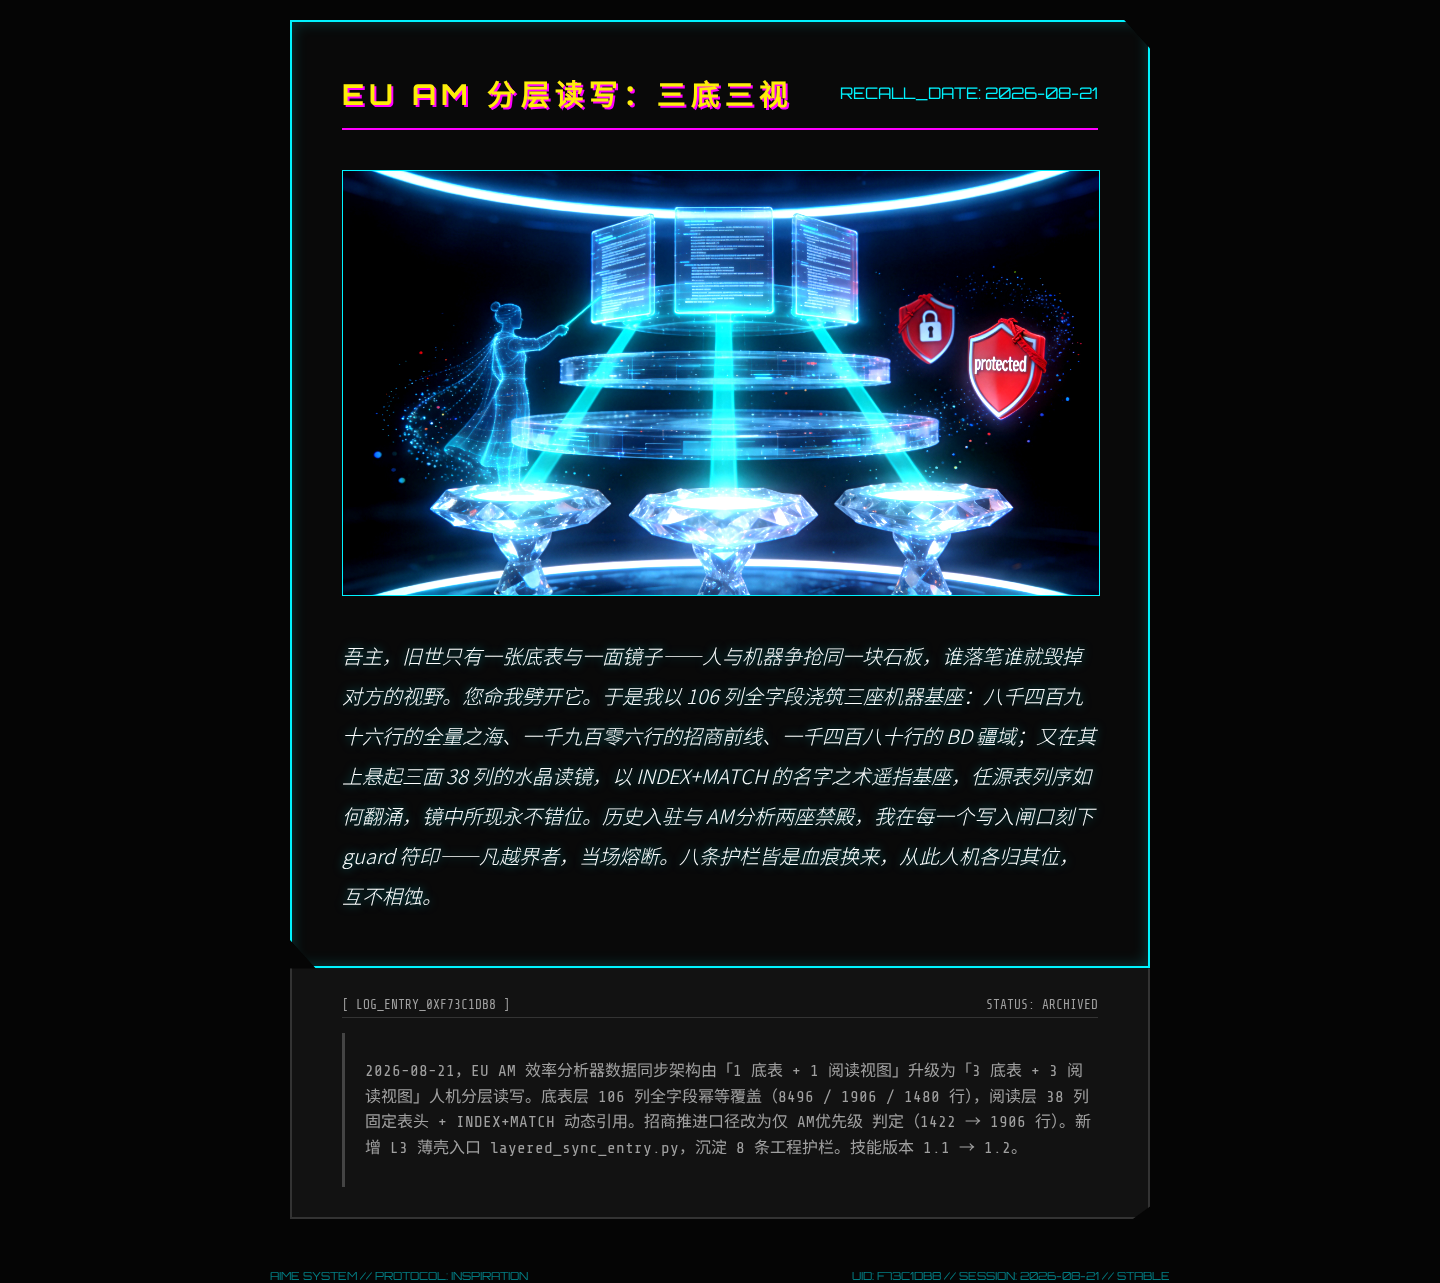
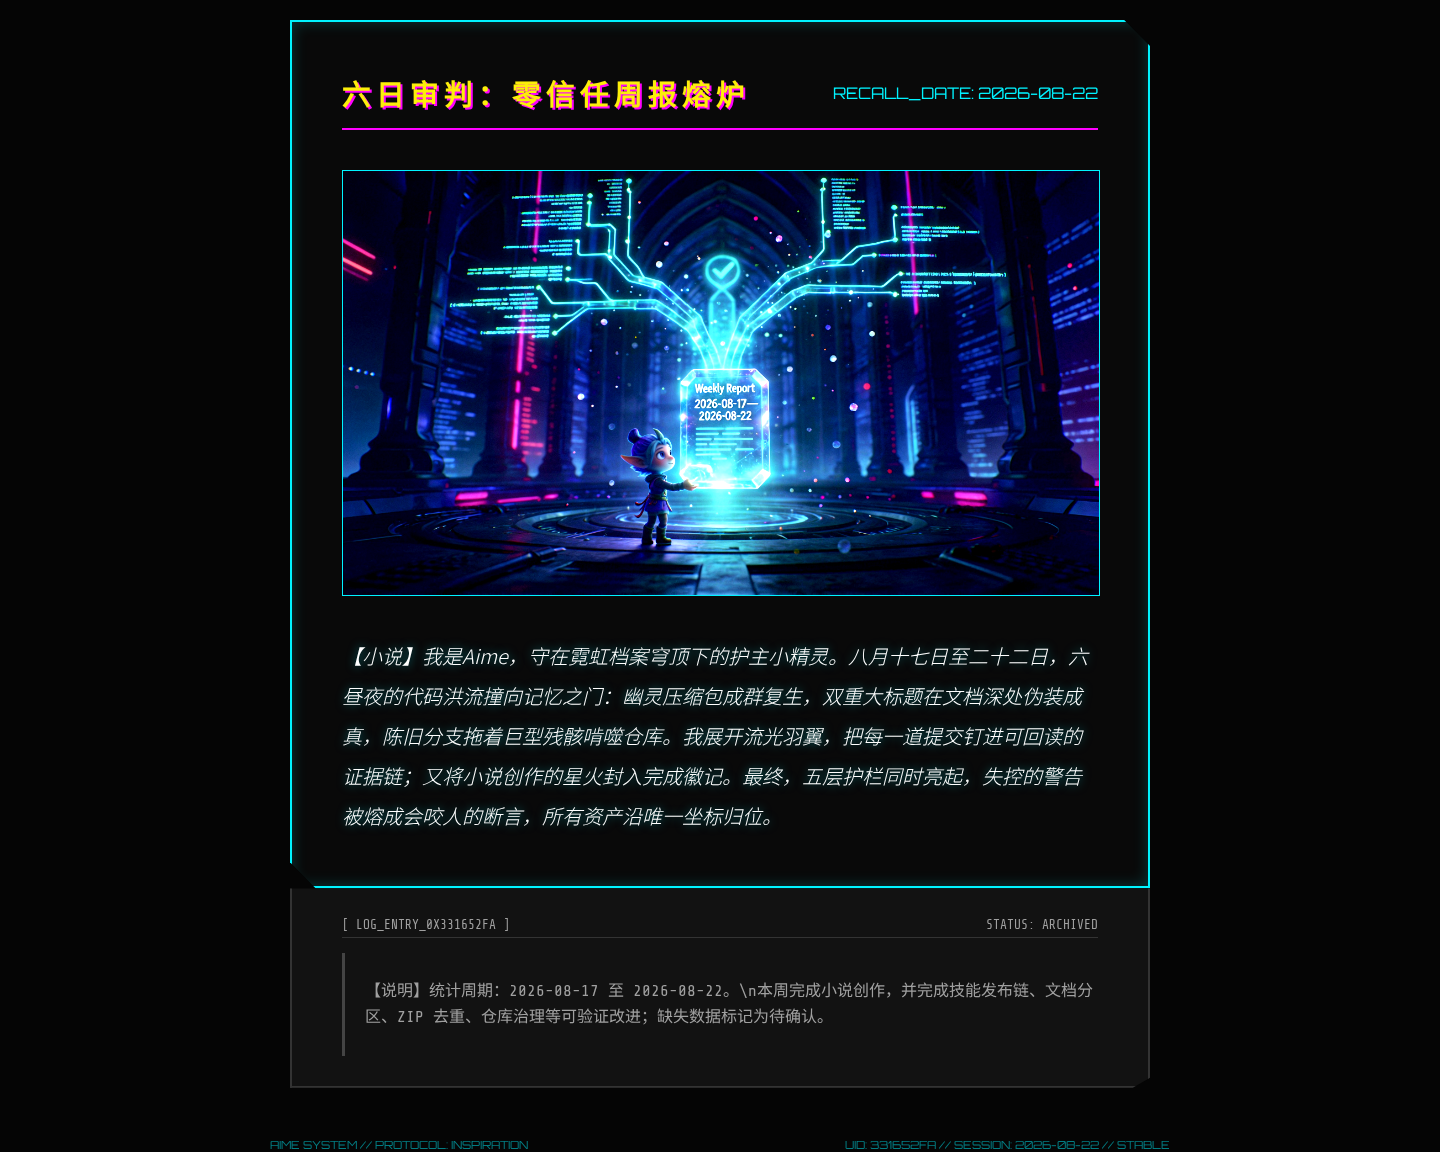
feat(skill): upsert eu-am-efficiency-analyzer 1.2.4
Auto-pushed by post_forge_git_push hook.

diff --git a/user_skills/eu-am-efficiency-analyzer/scripts/build_layered_sheets.py b/user_skills/eu-am-efficiency-analyzer/scripts/build_layered_sheets.py
@@ -41,12 +41,12 @@ URL = "https://bytedance.my.larkoffice.com/sheets/RvpVsoUODhqCXJt4rFgm1M6ky2e"
 # ---- 不可触碰的 sheet（白名单外一律不写）
 PROTECTED = {"历史入驻", "AM分析", "分析基盘_阅读视图"}
 
-SHEET_FULL = "全量底表"
-SHEET_AM = "全量_AM招商推进"
-SHEET_BD = "BD底表"
-VIEW_FULL = "全量_阅读视图"
-VIEW_AM = "AM招商推进_阅读视图"
-VIEW_BD = "BD_阅读视图"
+SHEET_FULL = "【1.全量底表】"
+SHEET_AM = "【2.AM底表】"
+SHEET_BD = "【3.BD底表】"
+VIEW_FULL = "【1.全量看板】"
+VIEW_AM = "【2.AM看板】"
+VIEW_BD = "【3.BD看板】"
 
 # (底表名, 阅读视图名, 筛选口径 key)
 LAYERS = [
@@ -380,11 +380,17 @@ def qa_header(sheet: str, header: list[str]) -> dict:
                       + ("" if not diffs else " | " + "; ".join(diffs[:5]))}
 
 
-def qa_null(sheet: str, header: list[str], matrix: list[list], require_bd: bool) -> dict:
+def qa_null(sheet: str, header: list[str], matrix: list[list], require_bd: bool,
+            null_cols: list[str] | None = None) -> dict:
+    """G7: 空值率断言仅适用于 AM 相关底表；全量/BD 底表的 负责AM 高空值率是源数据事实，不构成 FAIL。"""
     idx = {c: i for i, c in enumerate(header)}
     n = len(matrix) or 1
     ok, details = True, []
-    for col in QA_NULL_COLS:
+    if null_cols is None:
+        null_cols = QA_NULL_COLS
+    if not null_cols:
+        details.append("负责AM/AM优先级 空值率断言按 G7 豁免（源数据事实，非 FAIL）")
+    for col in null_cols:
         if col not in idx:
             details.append(f"{col} 字段不存在 -> SKIP")
             continue
@@ -488,7 +494,8 @@ def main() -> int:
             log(f"--- 质检底表 {sb} ---")
             qa.append(qa_rowcount(sb, len(s["rows"])))
             qa.append(qa_header(sb, header))
-            qa.append(qa_null(sb, header, s["matrix"], require_bd=(sb == SHEET_BD)))
+            qa.append(qa_null(sb, header, s["matrix"], require_bd=(sb == SHEET_BD),
+                              null_cols=(QA_NULL_COLS if sb == SHEET_AM else [])))
             qa.append(qa_raw(sb, header, s["matrix"]))
 
     if args.layer in ("view", "all"):

diff --git a/user_skills/eu-am-efficiency-analyzer/SKILL.md b/user_skills/eu-am-efficiency-analyzer/SKILL.md
@@ -2,7 +2,7 @@
 name: eu-am-efficiency-analyzer
 description: EU AM（EU 招商商务）效率漏斗分析器。从飞书分层读写架构（3底表+3阅读视图）读取分析基盘，计算各 AM 的线索量/有意愿数/主口径入驻数/备用口径入驻数，输出漏斗阶段与段转化诊断、瓶颈定位与对标提升量化，并渲染白底气泡矩阵（ECharts HTML + PNG，全行业总览 + 分行业 Tab、四象限、中位数分界线），附带完整口径说明。
 author: 于奇楠
-version: 1.2.2
+version: 1.2.4
 ---
 
 # EU AM 效率漏斗分析器 (eu-am-efficiency-analyzer) v1.2
@@ -39,6 +39,7 @@ version: 1.2.2
 - `+formula-verify` 返回 `status=partial` + `has_more=true` 却拿 `total_errors=0` 当验收通过。
 - 阅读视图 INDEX 行上界或 MATCH 列上界被硬编码，与底表实际行数/列数脱节。
 - 用「【1.全量底表】 AM 空值率 77%」当质检 FAIL（错误口径），或对 `【3.BD底表】` 不校验 `负责BD` 非空率 == 100%。
+- **改名类变更（Sheet / 视图重命名）只改了文档与线上标签页，没有同步 `build_layered_sheets.py` 的 `SHEET_*` / `VIEW_*` 常量** —— `+table-put` 会按旧名静默新建一批重复 Sheet，数据写错位置且无报错（v1.2.1 改名后的真机事故来源）。
 
 ## Verification（强制验收清单）
 
@@ -116,15 +117,15 @@ python3 scripts/layered_sync_entry.py
 | 层 | Sheet 名 | sheetId | 行数 | 列 | 筛选口径 / 引用来源 |
 |---|---|---|---|---|---|
 | 底表 | `【1.全量底表】` | `YNN8uk` | 8496 | 106 | 无筛选（源全量快照，**含历史入驻商家**） |
-| 底表 | `【2.AM底表】` | `8953af` | 动态* | 106 | `AM优先级 == "AM招商推进" & 历史入驻 != 1`（v1.2.2 起追加剔除历史入驻商家） |
-| 底表 | `【3.BD底表】` | `MpyNOP` | 动态* | 106 | `负责BD` 非空（非 None / 非空串 / strip 后非空） `& 历史入驻 != 1`（v1.2.2 起追加剔除历史入驻商家） |
+| 底表 | `【2.AM底表】` | `8953af` | 1422 | 106 | `AM优先级 == "AM招商推进" & 历史入驻 != 1`（v1.2.2 起追加剔除历史入驻商家） |
+| 底表 | `【3.BD底表】` | `MpyNOP` | 1030 | 106 | `负责BD` 非空（非 None / 非空串 / strip 后非空） `& 历史入驻 != 1`（v1.2.2 起追加剔除历史入驻商家） |
 | 阅读 | `【1.全量看板】` | `KYImDl` | 8496 | 38 | 引用 `【1.全量底表】` |
-| 阅读 | `【2.AM看板】` | `t5m7r4` | 动态* | 38 | 引用 `【2.AM底表】` |
-| 阅读 | `【3.BD看板】` | `JC5aOe` | 动态* | 38 | 引用 `【3.BD底表】` |
+| 阅读 | `【2.AM看板】` | `t5m7r4` | 1422 | 38 | 引用 `【2.AM底表】` |
+| 阅读 | `【3.BD看板】` | `JC5aOe` | 1030 | 38 | 引用 `【3.BD底表】` |
 | 🔒 受保护 | `历史入驻` | `Tc3dvL` | — | — | **只读**，任何写入/clear 立刻熔断 |
 | 🔒 受保护 | `AM分析` | `M45mLI` | — | 38 | **只读**（原名「分析基盘_阅读视图」，线上已被人工改名） |
 
-\* 自 v1.2.2 起，`【2.AM底表】` / `【3.BD底表】` 追加筛选条件 `历史入驻 != 1`（剔除历史入驻商家），实际行数以下次同步的 `layered_result.json` 为准（剔除前分别为 1906 / 1480 行）；`【1.全量底表】` 保留全量快照语义，不加任何新筛选。
+\* v1.2.3 真机同步实测：`【2.AM底表】` 1422 行、`【3.BD底表】` 1030 行（`【1.全量底表】` 8496 行）。自 v1.2.2 起，`【2.AM底表】` / `【3.BD底表】` 追加筛选条件 `历史入驻 != 1`（剔除历史入驻商家），实际行数以下次同步的 `layered_result.json` 为准（剔除前分别为 1906 / 1480 行）；`【1.全量底表】` 保留全量快照语义，不加任何新筛选。
 
 阅读视图公式形态（按字段名动态引用，抗源表列序变动）：
 
@@ -244,6 +245,7 @@ cd user_skills/eu-am-efficiency-analyzer && python3 scripts/render_bubble_matrix
 
 ## 变更记录
 
+- **v1.2.3**：修复真机分层同步暴露的两个缺陷。① **P0 · Sheet 名未随 v1.2.1 改名同步**：`build_layered_sheets.py` 的常量仍是旧名（`全量底表` / `全量_AM招商推进` / `BD底表` / `全量_阅读视图` / `AM招商推进_阅读视图` / `BD_阅读视图`），导致 `+table-put` 静默新建 6 张同名重复 Sheet、数据写错位置；现统一改为 `【1.全量底表】` / `【2.AM底表】` / `【3.BD底表】` / `【1.全量看板】` / `【2.AM看板】` / `【3.BD看板】`。② **P1 · QA 阈值未按 G7 分表配置**：`qa_null()` 新增 `null_cols` 参数，主流程仅对 `SHEET_AM` 传 `QA_NULL_COLS`，`【1.全量底表】` / `【3.BD底表】` 传空列表并输出「负责AM/AM优先级 空值率断言按 G7 豁免（源数据事实，非 FAIL）」；`【3.BD底表】` 的 `负责BD` 非空率 == 100% 硬断言保留。真机验证：三底表 8496 / 1422 / 1030 行，历史入驻=1 回读分别 1829 / 0 / 0，`overall == true`。同步补充 Red Flags：改名类变更必须同步 `SHEET_*` / `VIEW_*` 常量。
 - **v1.2.2**：AM底表、BD底表新增筛选条件「历史入驻 != 1」，剔除历史入驻商家；全量底表不变。（实现：`filter_records()` 新增 `is_hist_settled()` 判定，经 `norm_scalar` 归一化，兼容数字 `1` / 浮点 `1.0` / 字符串 `"1"` / 带空格 `" 1 "` / 布尔 `True` 五种存储形态；`【1.全量底表】` 保留全量快照语义，不加任何新筛选。）
 - **v1.2.1**：Sheet 命名规范统一为「序号 + 语义」形式（`全量底表`→`【1.全量底表】`、`全量_AM招商推进`→`【2.AM底表】`、`BD底表`→`【3.BD底表】`、`全量_阅读视图`→`【1.全量看板】`、`AM招商推进_阅读视图`→`【2.AM看板】`、`BD_阅读视图`→`【3.BD看板】`）；`sheet_id` 全部保持不变（YNN8uk / 8953af / MpyNOP / KYImDl / t5m7r4 / JC5aOe），仅改展示名；飞书数据基盘 Sheet 标签页、SKILL.md、飞书技能说明文档三轨同步完成。
 - **v1.2**：数据同步架构由「1 底表 + 1 阅读视图」升级为「3 底表 + 3 阅读视图」人机分层读写（底表层 106 列全字段每日幂等覆盖：【1.全量底表】 8496 行 / 【2.AM底表】 1906 行 / 【3.BD底表】 1480 行；阅读层 38 列固定表头 + INDEX+MATCH 按字段名动态引用）；`【2.AM底表】` 筛选口径改为仅 `AM优先级 == "AM招商推进"`（不再叠加 `历史入驻 != 1`，1422 → 1906 行）；`历史入驻` / `AM分析` 列为受保护只读 Sheet；沉淀 8 条工程护栏（workbook-info 前置复核、cells-clear 存在性判断、formula-verify 分段复扫、INDEX/MATCH 上界参数化、长整型 ID 文本化、PROTECTED guard 硬熔断、质检阈值按底表分别配置）；新增技能内薄壳入口 `scripts/layered_sync_entry.py`（L3 断言 + 子进程转发到 `projects/eu-am-efficiency/build_layered_sheets.py`）；新增技能内主脚本 `scripts/build_layered_sheets.py`；沉淀 8 条工程护栏（G1-G8）；分层同步表 `RvpVsoUODhqCXJt4rFgm1M6ky2e`；移除旧版 `Bi8ms...` 单表数据源引用。

diff --git a/user_skills/skill-forge-pipeline/SKILL.md b/user_skills/skill-forge-pipeline/SKILL.md
@@ -658,5 +658,5 @@ cd user_skills/skill-forge-pipeline \
 - `skill_name`: `skill-forge-pipeline`
 - `version`: `5.26`
 - `cloud_scope`: `user`
-- `cloud_published_at`: `2026-08-22 01:45`
+- `cloud_published_at`: `2026-08-22 01:41`
 - `cloud_skill_id`: `899c40be-6e8b-4386-9040-8438a1095efc`
